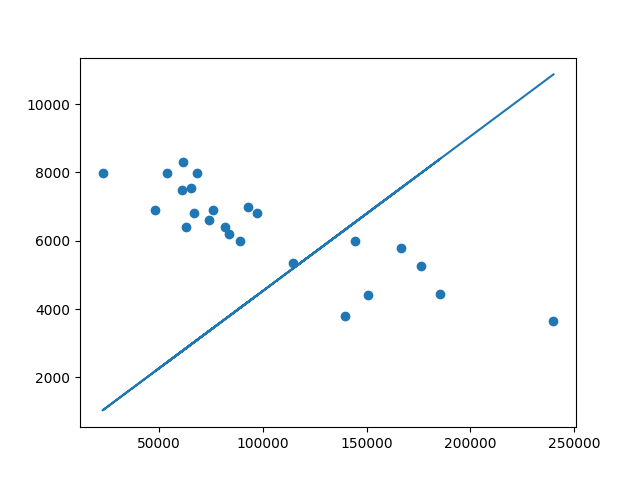
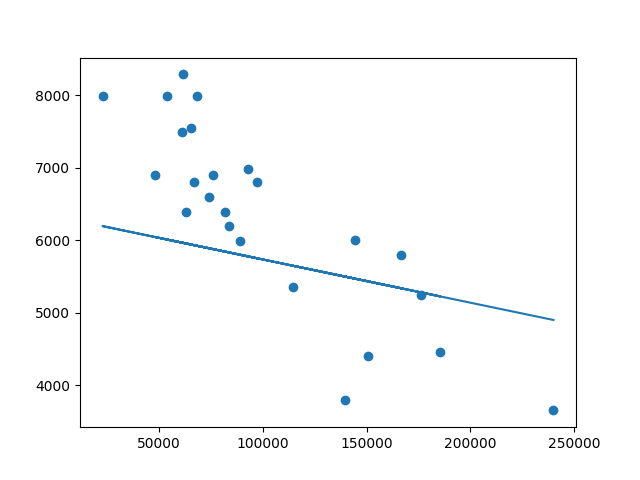
[FTL : trying to normalize and work with nomalized theta but its not optimizing]

diff --git a/test.py b/test.py
@@ -4,9 +4,13 @@ test program
 
 import numpy as np
 import pandas as pd
-from MyLinearRegression import MyLinearRegression as MyLR
 import matplotlib.pyplot as plt
 from sklearn.metrics import mean_squared_error
+from MyLinearRegression import MyLinearRegression as MyLR
+
+def normalize(X):
+    X_normalized = (X - np.min(X, axis=0)) / (np.max(X, axis=0) - np.min(X, axis=0))
+    return X_normalized
 
 def main() -> None:
     """
@@ -16,16 +20,32 @@ def main() -> None:
         num2 = float(input("Enter the mileage of the Car you want to buy: "))
         data = pd.read_csv('data.csv')
         x = np.array(data['km']).reshape(-1, 1)
+        nx = normalize(x)
         y = np.array(data['price']).reshape(-1, 1)
+        ny = normalize(y)
+        print(x, y)
         my_lr = MyLR()
-        theta = my_lr.fit_(x, y)
+        theta = my_lr.fit_(nx, ny)
+        x_min = np.min(x)
+        x_max = np.max(x)
+        x_range = x_max - x_min
+        y_mean = np.mean(y)
+        y_std = np.std(y)
+
+        theta_0_original = y_mean - theta[0] * y_std / x_range
+        theta_1_original = theta[1] * y_std / x_range
+        my_lr.thetas[0] = theta_0_original
+        my_lr.thetas[1] = theta_1_original
+        print(theta)
         y_hat = my_lr.predict_(x)
+        print(y_hat)
         plt.plot(x, y_hat)
-        print(theta[0] + num2 * theta[1])
+        # result = theta[0] + (num2 - np.min(x)) / (np.max(x) - np.min(x)) * theta[1]
+        # print( (result * (np.max(y) - np.min(y))) + np.min(y))
         plt.scatter(x, y)
         plt.savefig('image.png')
-        print(my_lr.mse_(y, y_hat))
-        print(mean_squared_error(y, y_hat))
+        print(my_lr.mse_(ny, y_hat))
+        print(mean_squared_error(ny, y_hat))
     else:
         print("Usage: ./python3 test.py")
 

diff --git a/MyLinearRegression.py b/MyLinearRegression.py
@@ -10,7 +10,7 @@ class MyLinearRegression():
     My personnal linear regression class to fit like a boss.
     """
 
-    def __init__(self, thetas=np.array([[0], [0]]), alpha=.0000000001, max_iter=60000):
+    def __init__(self, thetas=np.array([[0], [0]]), alpha=.01, max_iter=60000):
         self.alpha = alpha
         self.max_iter = max_iter
         self.thetas = thetas
@@ -30,10 +30,12 @@ class MyLinearRegression():
             return None
         m, _ = x.shape
         i = 0
+        losses = []
         while i < self.max_iter:
             X = np.insert(x, 0, np.array([1]), axis=1)
             j = (1 / m) * np.dot(X.transpose(), (np.dot(X, self.thetas) - y))
             self.thetas = self.thetas - self.alpha * j
+            losses.append(self.loss_(y, self.predict_(x)))
             # print(self.thetas)
             i += 1
         return self.thetas
